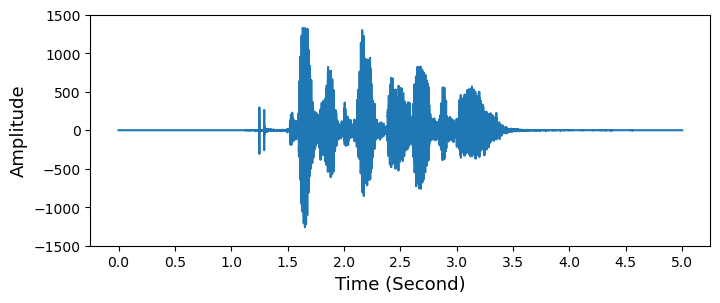
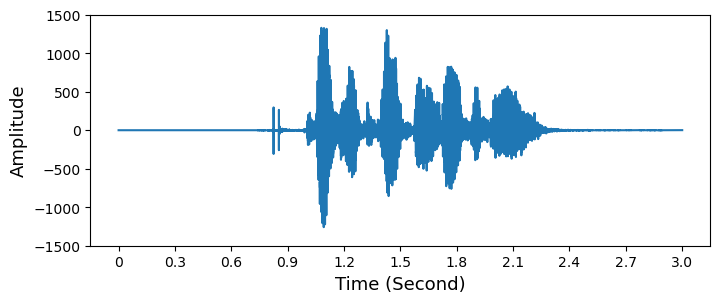
[modify] Speech Processing 게시글 설명 추가 및 이미지 수정

diff --git a/_posts/2023-10-31-speech-processing.md b/_posts/2023-10-31-speech-processing.md
@@ -18,37 +18,44 @@ toc: true
                   
 ## **Overview**
 - Speech Emotion Recognition (SER)과 같은 task를 위해 머신러닝/딥러닝 모델을 개발하는 경우에, 일반적으로 음성 데이터를 MFCC와 같은 Feature로 변환하여 활용합니다.
+  - 음성 내용을 식별하는데 적합한 오디오 구성 요소를 강조하고 배경 소음과 같은 다른 항목들을 삭제하기 위함입니다.
 - 음성 데이터에 대한 Feature Extraction 기법 중 주요 개념을 소개하겠습니다.
 
 ## **음성 신호란? (Audio Signal)**
-- 음성 데이터는 샘플링 과정을 통해 소리로부터 수집되며 보통 sample rate와 sample data라는 두가지 요소로 구성됩니다. 
-- Sample rate는 초당 샘플링 횟수를 의미하며, 높은 sample rate 일수록 더 높은 음질의 음성 파일이 저장됩니다. 
-- Sample rate와 sample data로 아래의 feature들을 추출하여 음성 데이터 분석에 활용합니다.
-  - **Zero Cross Rate**: 신호 내에서 0을 지나는 비율을 의미하며 신호의 주파수 분포를 알 수 있습니다.
-  - **Spectral Centroid**: Spectrum의 중심을 나타내며 신호의 주파수 분포를 요약합니다.
-  - **Spectral Spread**: 주파수 스펙트럼의 폭으로 주파수 특성을 설명합니다.
-  - **Spectral Entropy**: 신호의 복잡성을 측정합니다.
-  - **Spectral Flux**: 스펙트럼의 차이를 측정하여 신호 변화를 파악합니다.
-  - **MFCC**: 신호의 스펙트럼을 인간 청각 특성에 가깝게 변환합니다.
-  - **Chroma Vector**: 음의 음계에 대한 정보를 추출합니다.
-  - **Chroma Deviation**: Chroma Vector 간의 변동성을 나타내어 음성 신호의 음악적 특성을 파악합니다.
-
 - 음성 신호는 아래와 같이 시간, 진폭, 주파수 세가지 domain으로 이루어져 있습니다.
-  - **Time Domain**: 음성 신호는 연속적인 샘플 값으로 표현됩니다.
-  - **Amplitude Domain**: 음성 신호의 강도를 나타냅니다.
-  - **Frequency Domain**: 음성 신호 주파수의 크기와 분포를 나타냅니다.
+  - **Time (시간) Domain**: 음성 신호는 연속적인 샘플 값으로 표현됩니다.
+  - **Amplitude (진폭) Domain**: 음성 신호의 강도를 나타냅니다.
+  - **Frequency (주파수) Domain**: 음성 신호 주파수의 크기와 분포를 나타냅니다.
 
 ![fig1](/assets/img/for_post/20231031-0.jpg)
 
-## **Filter Bank**
-### **1. 음성 데이터 불러오기**
+- 음성 데이터는 샘플링 과정을 통해 소리로부터 수집되며 보통 sample rate와 data라는 두가지 요소로 구성됩니다. 
+- Sample rate는 초당 샘플링 횟수를 의미하며, 높은 sample rate 일수록 더 높은 음질의 음성 파일이 저장됩니다.
+- 아래에서 불러온 `signal`은 158558의 길이를 가지며, `sample_rate`는 48000Hz 입니다.
+  - 따라서 (3 x `sample_rate`)는 3초, 즉 처음 3초 동안의 음성만 인덱싱해서 처리하겠습니다.
+
 ```python
-sample_rate, signal = scipy.io.wavfile.read('test.wav') 
-signal = signal[0:int(5 * sample_rate)]
+import scipy.io.wavfile
+sample_rate, signal = scipy.io.wavfile.read('test.wav')
+signal = signal[0:int(3 * sample_rate)]
 ```
+
 ![fig2](/assets/img/for_post/20231031-1.png)
 
-### **2. Pre-emphasis Filter**
+
+## 음성 분석을 위한 특성 추출 (Feature Extraction) | MFCC
+- 사람의 내는 소리 및 음소 (phoneme) 는 혀, 치아 등의 성도 (vocal track) 에 따라 다르게 표현됩니다. 
+- 성도의 모양은 Short-time Power Spectrum의 포락선 (envelope) 으로 표현될 수 있으며, MFCC는 이 포락선을 정확하게 포함하기 위해서 생성됩니다.
+  - 스펙트럼 포락선은 주파수-진폭 평면의 곡선입니다.
+- MFCC (Mel Frequency Cepstral Coefficents)는 1980년대에 소개되었으며
+- 이 외에도 아래의 특성들을 음성 데이터 분석에 활용할 수 있습니다.
+  - Zero Cross Rate, Spectral Centroid, Spectral Spread, Spectral Entropy, Spectral Flux, Chroma Vector, Chroma Deviation
+
+
+### **Filter Bank**
+- 먼저 Filter Bank를 계산한 뒤 몇가지 추가 단계를 거쳐 MFCC를 얻을 수 있습니다.
+
+#### **1. Pre-emphasis Filter를 적용하여 고주파를 증폭하기**
 - $y(t) = x(t) - \alpha x(t-1)$ where $\alpha = 0.95, 0.97$
 - 신호에 Pre-emphasis filter를 적용하여 고주파 대역의 진폭을 증가시키고 낮은 대역의 진폭은 감소시킵니다.
 - 제한된 컴퓨팅 자원으로 개발해야했던 과거에 보편적으로 사용되었습니다. 현대에서는 잘 사용하지 않으며 mean normalization 등으로 대체합니다.
@@ -64,13 +71,14 @@ emphasized_signal = np.append(signal[0], signal[1:] - pre_emphasis * signal[:-1]
 ```
 ![fig3](/assets/img/for_post/20231031-2.png)
 
-### **3. 신호를 프레임으로 분할**
+#### **2. 신호를 프레임으로 분할 (Framing) **
 - 신호는 short-time 프레임으로 분할합니다.
 - 신호 내의 주파수는 시간에 따라 변하기 때문에, 신호 전체에 푸리에 변환을 사용하게 되면 시간에 따른 주파수 형태를 잃게 됩니다.
   - 따라서, 신호 내 주파수가 short-time 동안 안정적이라고 가정합니다.
   - short-time 프레임에 대해 푸리에 변환을 수행하여 인접한 프레임을 연결합니다.
   - 이를 통해 전체 신호의 주파수 형태를 근사할 수 있습니다.
 - 음성 처리에서의 전형적인 프레임 크기는 20ms에서 40ms 입니다. 
+  - 프레임이 이보다 짧으면 믿을만한 스펙트럼을 얻을 수 있는 샘플이 충분하지 않으며, 프레임이 길면 프레임 전체에서 신호가 너무 많이 변경됩니다.
 
 ```python
 frame_size = 0.025
@@ -95,7 +103,7 @@ print("Shape of Frames:", np.shape(frames))
 Shape of Frames: (328, 1200)
 ```
 
-### **4. Window 함수 적용**
+#### **3. Window 함수 적용**
 - Hamming Window 함수 적용
 
 $w[x] = 0.54 - 0.46 \cos (\frac{w\pi n}{N-1})$ where $0<=n<=N-1,$
@@ -104,11 +112,14 @@ $\text{N is the window length.}$
 ```python
 frames *= np.hamming(frame_length)
 ```
-- 이를 통해 FFT가 데이터가 무한하다고 가정하는 것을 보정하고 주파수 영역에서의 정보를 누출 (Leakage)을 줄입니다.
+- FFT가 데이터가 무한하다고 가정하는 것을 보정하고 주파수 영역에서의 정보를 누출 (Leakage)을 줄입니다.
 
-### **5. 각 프레임에 대해 Short-time Fourier Transform (STFT)를 수행하여 Power Spectrum을 계산합니다.**
-- 고속 푸리에 변환 (FFT, Fast Fourier Transform)을 통해 음성 신호를 주파수 도메인으로 변환하여 스펙트럼을 얻을 수 있습니다. 
+#### **4. 각 프레임에 대해 Short-time Fourier Transform (STFT)를 수행하여 Power Spectrum을 계산합니다.**
+- 귀에 들어오는 소리의 주파수에 따라 다양한 지점에서 달팽이관이 진동하며, 진동하는 달팽이관의 위치에 따라 여러 신경이 활성화되어 특정 주파수가 있다는 사실을 뇌에 알립니다.
+  - Power Spectrum은 이와 유사한 작업을 수행하여 각 프레임에 어떤 주파수가 있는지 식별합니다.
+- 고속 푸리에 변환 (FFT, Fast Fourier Transform)을 통해 음성 신호를 주파수 도메인으로 변환하여 스펙트럼을 얻을 수 있습니다.
 - 각 프레임에 N-point FFT(Fast Fourier Transform) (=STFT) 를 수행하여 주파수 스펙트럼, 즉 Short-Time Fourier Transform (STFT)을 계산합니다.
+  - 음성을 작게 자른 조각에 푸리에 변환을 적용하는 느낌입니다.
 - N은 일반적으로 256, 512 값을 세팅합니다.
 - Power Spectrum (Periodogram)은  다음과 같이 계산됩니다.
   - $P = \frac{\| \text{FFT} (x_i) \| ^2}{N}$
@@ -119,10 +130,14 @@ mag_frames = np.absolute(np.fft.rfft(frames, NFFT))  # Magnitude of the FFT
 pow_frames = ((1.0 / NFFT) * ((mag_frames) ** 2))  # Power Spectrum
 ```
 
-### **6. Filter Bank를 계산합니다.**
+#### **5. Power Spectrum을 Mel Scale에서의 Filter Bank로 변환합니다.**
+- 달팽이관은 밀접한 두 주파수 사이의 차이를 식별할 수 없기에, Power Spectrum에는 불필요한 정보가 많이 포함되어 있습니다.
+  - 따라서 Mel Filter Banck를 활용하여 Power Spectrum Bin들을 수집하여 합산하고, 각 주파수 영역에 얼마나 많은 에너지가 존재하는지를 분석합니다.
+  - 주파수가 높아질수록 Filter는 더 넓어지고 변화에 덜 민감해집니다.
 - Mel Spectrum은 사람의 청각 시스템이 높은 주파수보다 낮은 주파수 대역에서 민감하다는 특성을 반영하여 설계된 스펙트럼 표현 방법입니다.
-  - 이때 사용되는 Mel Scale 값은 물리적인 주파수와 사람이 인식하는 주파수 간의 관계를 나타내는 척도로 사용됩니다.
+  - 이때 사용되는 Mel Scale 값은 물리적인 주파수와 사람이 인식하는 주파수 간의 관계를 나타내는 척도로 사용되며 Filter Bank의 간격과 너비를 정확하게 알려줍니다.
 - Filter Bank를 추출하기 위해 주로 Mel Scale에서 파생된 40개의 삼각형 필터를 Power Spectrum에 적용합니다.
+
 - 헤르츠(Hertz, f)와 멜(Mel, m) 사이의 변환은 다음과 같은 방정식을 사용하여 수행할 수 있습니다:
   - $m = 2595\log_{10}(a + \frac{f}{700})$ 
   - $f = 700(10^{m/2595}-1)$
@@ -130,6 +145,8 @@ pow_frames = ((1.0 / NFFT) * ((mag_frames) ** 2))  # Power Spectrum
 - Filter Bank 내 각 필터는 삼각형 모형이며, 중심 주파수에서의 response가 1이고 주변 두 필터의 중심 주파수에 도달할 때 까지 선형적으로 감소하여 response가 0이 됩니다.
 
 ![fig4](/assets/img/for_post/20231031-3.jpg)
+
+- 우리는 선형 규모의 소리를 듣지 못하기 때문에, 사람이 실제로 듣는 것과 밀접하게 로그를 취해줍니다.
 
 ```python
 nfilt = 40
@@ -154,12 +171,10 @@ filter_banks = np.where(filter_banks == 0, np.finfo(float).eps, filter_banks)  #
 filter_banks = 20 * np.log10(filter_banks)  # dB
 ```
 
-- Power Spectrum을 Mel Scale에서의 Filter Bank로 변환하여 주파수 대역을 더 구체적으로 분석 가능 합니다.
-
 ![fig5](/assets/img/for_post/20231031-4.png)
 
 
-### **7. Mean Normalization**
+#### **7. Mean Normalization**
 - Mel-scaled Filter Bank 특성을 원한다면 해당 과정은 스킵하셔도 됩니다.
 - 스펙트럼을 균형있게 해주며 SNR을 향상시키기 위해 각 계수의 평균을 모든 프레임에서 빼는 계산을 수행합니다.
 
@@ -167,19 +182,21 @@ filter_banks = 20 * np.log10(filter_banks)  # dB
 filter_banks -= (numpy.mean(filter_banks, axis=0) + 1e-8)
 ```
 
-## **MFCC (Mel-Frequency Cepstral Coefficients)**
-### **1. 이전 단계에서 계산한 Filter Bank에 Discrete Cosine Transform (DCT)를 적용한 후 결과로 나온 계수들 중 일부만 보존합니다.**
-  - Filter Bank는 높은 상관관계를 가질 수 있는데 이는 머신러닝/딥러닝 알고리즘에 치명적입니다.
+### **MFCC (Mel-Frequency Cepstral Coefficients)**
+#### **1. 이전 단계에서 계산한 Filter Bank에 Discrete Cosine Transform (DCT)를 적용한 후 결과로 나온 계수들 중 일부만 보존합니다.**
+- Filter Bank는 높은 상관관계를 가질 수 있는데 이는 머신러닝/딥러닝 알고리즘에 치명적입니다.
   - 따라서, Filter Bank 계수의 상관관계를 제거하고 Filter Bank의 압축된 표현을 DCT를 통해 얻습니다.
-  - 일반적으로 자동 음성 인식 (ASR)에서 결과 Cepstral 계수 중 2에서 13까지의 계수를 보존하고 나머지는 버립니다.
-  - 이를 통해 미세한 세부사항이 아닌 주요 정보만을 보존하여 모델 성능을 향상시킬 수 있습니다.
+  - DCT는 에너지를 역상관시킵니다.
+- Cepstral 계수 중 2에서 13까지의 계수를 보존하고 나머지는 버립니다.
+  - 더 높은 DCT 계수가 Filter Bank 에너지의 빠른 변화를 나타내고 이는 모델링 (ASR)의 성능을 저하시킵니다.
+  - 주요 정보만을 보존하여 모델 성능을 향상시킬 수 있습니다.
 
 ```python
 num_ceps = 12
 mfcc = dct(filter_banks, type=2, axis=1, norm='ortho')[:, 1 : (num_ceps + 1)]  # Keep 2-13
 ```
 
-### **2. MFCC내 큰 계수들을 강조하거나 무시하는 데  Sinusoidal liftering을 적용할 수 있습니다.**
+#### **2. MFCC내 큰 계수들을 강조하거나 무시하는 데  Sinusoidal liftering을 적용할 수 있습니다.**
 - 노이즈가 있는 환경에서 더 정확한 음성 인식이 가능합니다.
 
 ```python
@@ -198,15 +215,13 @@ Shape of MFCCs: (328, 12)
 
 ![fig6](/assets/img/for_post/20231031-5.png)
 
-### **3. Mean Normalization**
+#### **3. Mean Normalization**
 
 ```python
 mfcc -= (np.mean(mfcc, axis=0) + 1e-8)
 ```
 
-
-
-## **음성 데이터로 간단하게 데이터 전처리 하기**
+## **라이브러리로 간단하게 음성 데이터 전처리 하기**
 - 음성 데이터에 대한 Feature Extraction은 음성 관련 모델링에서 중요한 과정 중 하나입니다. 
 - Feature Extraction 에는 여러 기법이 사용되며, 음성 신호를 효율적으로 표현하고 노이즈를 감소시켜 머신러닝/딥러닝 모델링에 적합한 형태로 변환시켜 줍니다.
 - 파이썬 라이브러리를 통해 간단하게 음성의 특성을 추출하는 방법 및 여러 전처리 방식들을 소개하겠습니다.
@@ -322,6 +337,8 @@ def trimming(data, sampling_rate, top_db):
 
 #### **Specaugment Augmentation**
 - MFCC 또는 Melspectrogram과 각각의 1,2차 미분을 stacking 하여 3차원 특성을 생성합니다.
+- MFCC 벡터는 단일 프레임의 Power Spectrum 포락선만 설명하지만, 음성에도 역학 정보가 있을 수 있습니다. 
+  - 즉 시간에 따른 MFCC의 궤도를 계산하고 이를 원래의 특징 벡터에 추가하여 성능을 향상시킬 수 있습니다.
 
 ```python
 def preprocess_dataset(data, sampling_rate, frame_length, frame_stride, feature):
@@ -348,7 +365,7 @@ def preprocess_dataset(data, sampling_rate, frame_length, frame_stride, feature)
     return features
 ```
 -------------------
-- 이러한 기법들을 비교하면서 모델에 맞는 특성을 선택해서 사용하면 예측 성능을 향상시킬 수 있습니다.
+- 이러한 기법들을 비교하면서 모델에 맞는 특성을 선택하여 사용한다면 예측 성능을 향상시킬 수 있습니다.
 
 
 #### **References**
@@ -362,4 +379,6 @@ def preprocess_dataset(data, sampling_rate, frame_length, frame_stride, feature)
 }
 
 [2] Speech Emotion Recognition, https://www.kaggle.com/code/shivamburnwal/speech-emotion-recognition
+
+[3] Mel Frequency Cepstral Coefficient (MFCC) tutorial, http://practicalcryptography.com/miscellaneous/machine-learning/guide-mel-frequency-cepstral-coefficients-mfccs/
 ```
